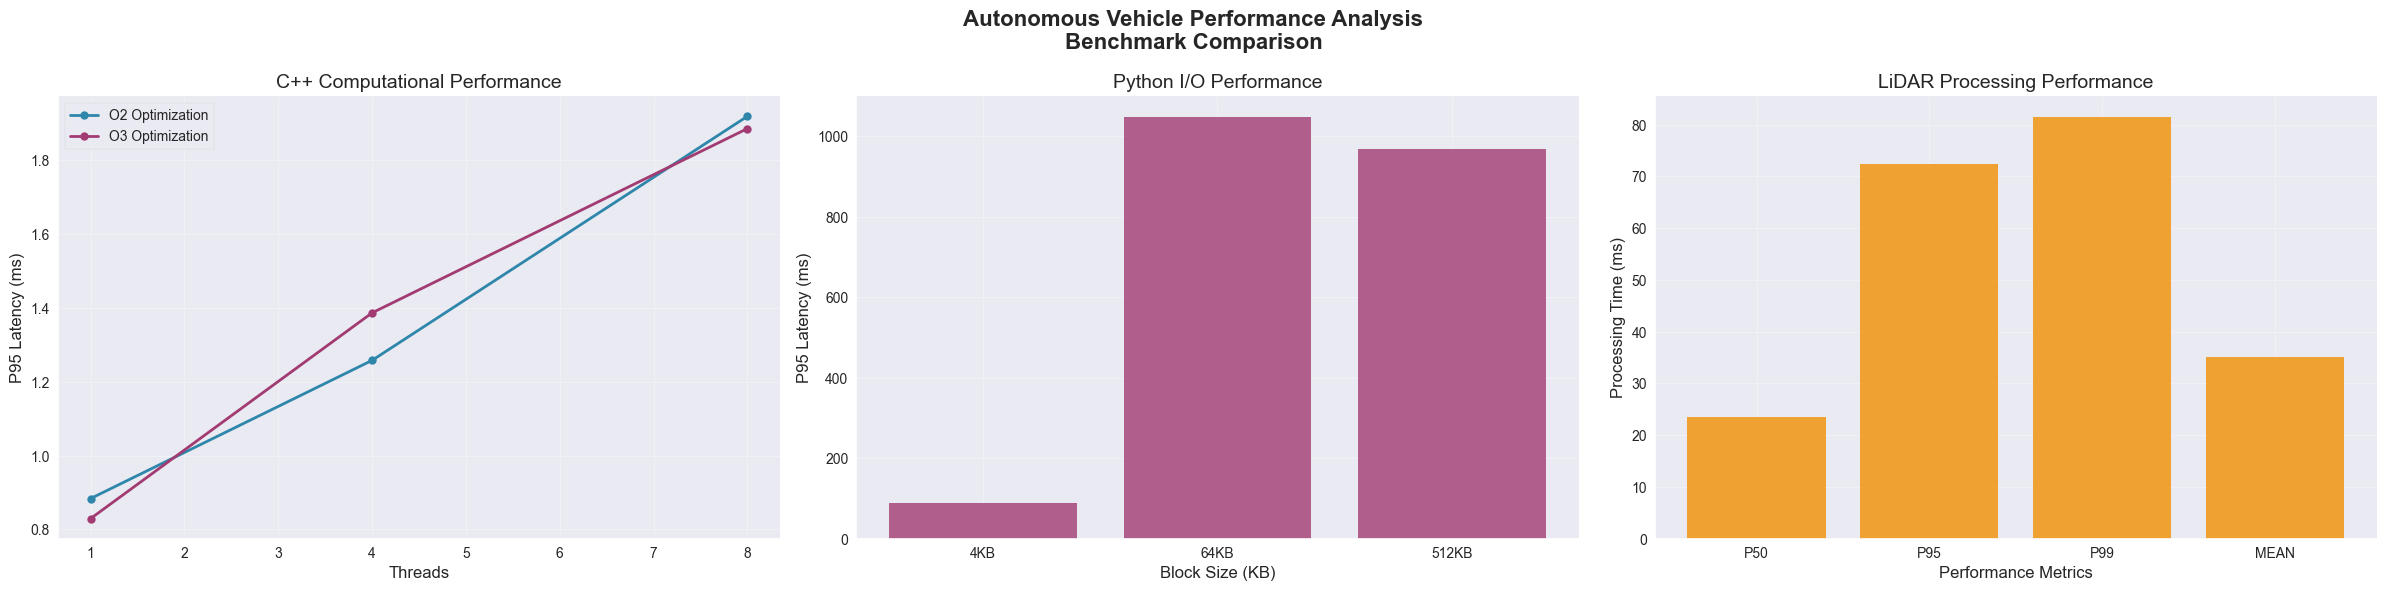
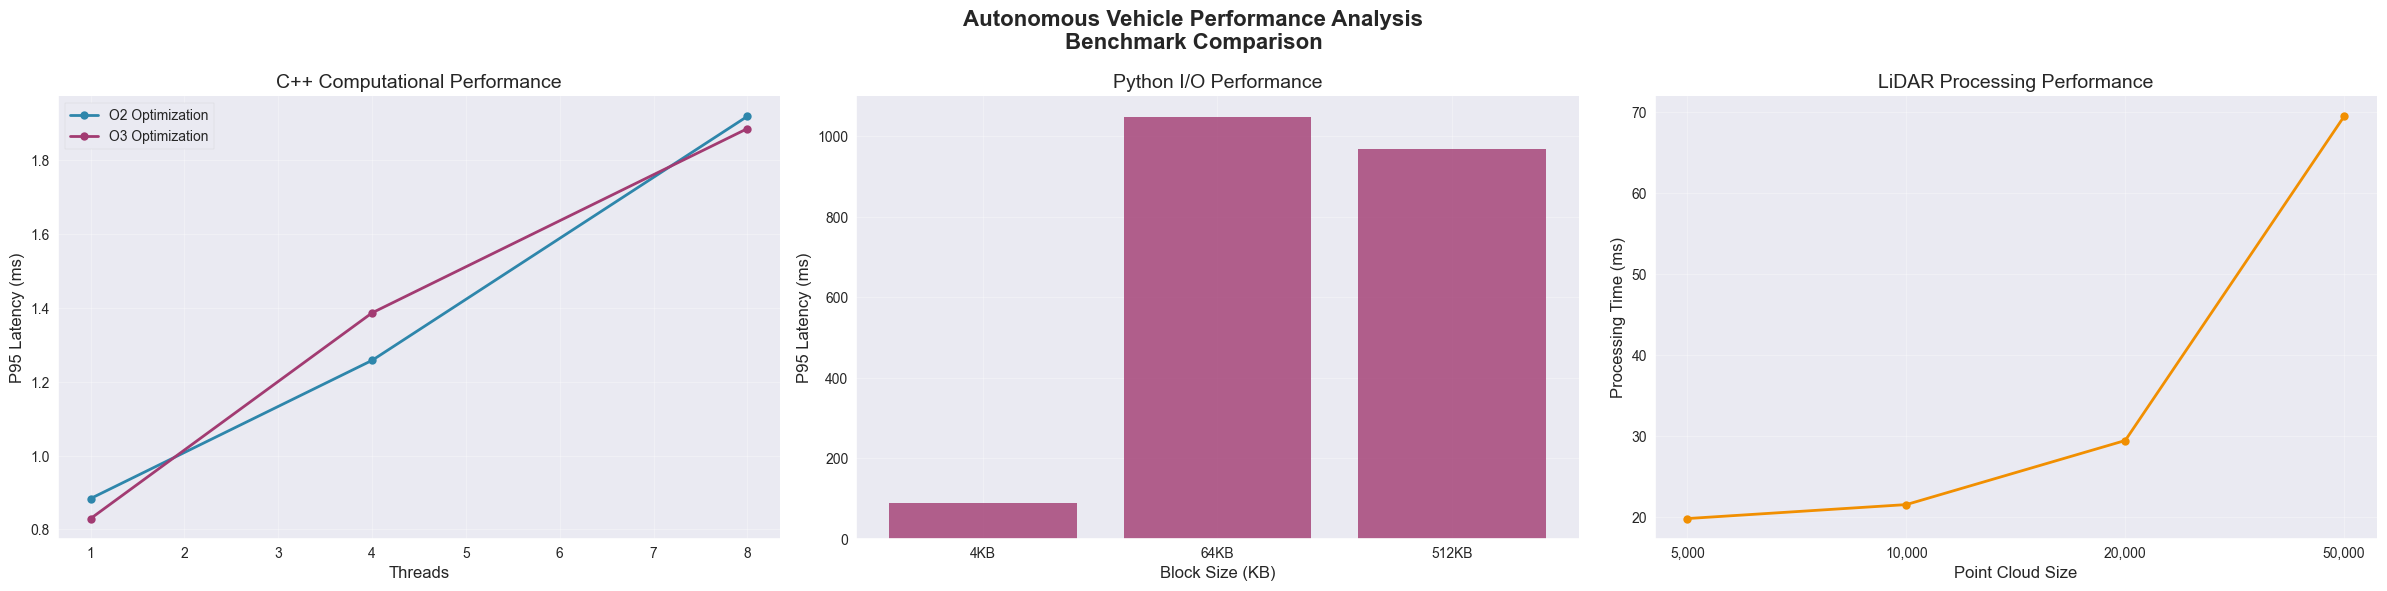
fixed figure bug

Changed region(s): [[0.682, 0.1827, 0.992, 0.9442], [0.806, 0.9442, 0.868, 1.0], [0.682, 0.4569, 0.713, 0.4873]]

diff --git a/analyze/plot.py b/analyze/plot.py
@@ -305,29 +305,38 @@ class PerformanceVisualizer:
         
         # LiDAR Processing subplot
         if 'lidar_processing' in benchmarks and ax_idx < len(axes):
-            lidar_data = df[df['bench'] == 'lidar_processing']
-            if not lidar_data.empty:
-                # Create a simple bar chart for LiDAR metrics
-                metrics = ['p50', 'p95', 'p99', 'mean']
-                metric_values = []
-                metric_labels = []
-                
-                for metric in metrics:
-                    metric_data = lidar_data[lidar_data['level_4'] == metric]
-                    if not metric_data.empty:
-                        metric_values.append(metric_data['wall_ms'].iloc[0])
-                        metric_labels.append(metric.upper())
-                
-                if metric_values:
-                    bars = axes[ax_idx].bar(range(len(metric_values)), metric_values,
-                                          color=self.colors['accent'], alpha=0.8)
+            # Try to load raw data for point cloud size analysis
+            raw_data_path = "out/lidar_processing_raw.csv"
+            if os.path.exists(raw_data_path):
+                try:
+                    raw_df = pd.read_csv(raw_data_path)
+                    point_sizes = sorted(raw_df['points'].unique())
                     
-                    axes[ax_idx].set_xlabel('Performance Metrics')
+                    # Calculate mean processing time for each point cloud size
+                    mean_times = []
+                    for size in point_sizes:
+                        size_data = raw_df[raw_df['points'] == size]['wall_ms']
+                        mean_times.append(size_data.mean())
+                    
+                    # Create line plot showing performance vs point cloud size
+                    x_pos = range(len(point_sizes))
+                    axes[ax_idx].plot(x_pos, mean_times, 
+                                     color=self.colors['accent'], marker='o', 
+                                     linewidth=2, markersize=6)
+                    
+                    axes[ax_idx].set_xlabel('Point Cloud Size')
                     axes[ax_idx].set_ylabel('Processing Time (ms)')
                     axes[ax_idx].set_title('LiDAR Processing Performance')
-                    axes[ax_idx].set_xticks(range(len(metric_labels)))
-                    axes[ax_idx].set_xticklabels(metric_labels)
-                    axes[ax_idx].grid(True, alpha=0.3, axis='y')
+                    axes[ax_idx].set_xticks(x_pos)
+                    axes[ax_idx].set_xticklabels([f'{size:,}' for size in point_sizes])
+                    axes[ax_idx].grid(True, alpha=0.3)
+                except Exception as e:
+                    print(f"Warning: Could not load raw LiDAR data: {e}")
+                    # Fallback to aggregated metrics
+                    self._create_fallback_lidar_subplot(axes[ax_idx], df[df['bench'] == 'lidar_processing'])
+            else:
+                # Fallback to aggregated metrics when raw data not available
+                self._create_fallback_lidar_subplot(axes[ax_idx], df[df['bench'] == 'lidar_processing'])
             ax_idx += 1
         
         plt.suptitle('Autonomous Vehicle Performance Analysis\nBenchmark Comparison', 
@@ -479,6 +488,31 @@ class PerformanceVisualizer:
         plt.close()
         
         return filepath
+    
+    def _create_fallback_lidar_subplot(self, ax, lidar_data: pd.DataFrame) -> None:
+        """Create fallback LiDAR subplot when raw data is not available."""
+        if not lidar_data.empty:
+            # Create a simple bar chart for LiDAR metrics
+            metrics = ['p50', 'p95', 'p99', 'mean']
+            metric_values = []
+            metric_labels = []
+            
+            for metric in metrics:
+                metric_data = lidar_data[lidar_data['level_4'] == metric]
+                if not metric_data.empty:
+                    metric_values.append(metric_data['wall_ms'].iloc[0])
+                    metric_labels.append(metric.upper())
+            
+            if metric_values:
+                bars = ax.bar(range(len(metric_values)), metric_values,
+                             color=self.colors['accent'], alpha=0.8)
+                
+                ax.set_xlabel('Performance Metrics')
+                ax.set_ylabel('Processing Time (ms)')
+                ax.set_title('LiDAR Processing Performance')
+                ax.set_xticks(range(len(metric_labels)))
+                ax.set_xticklabels(metric_labels)
+                ax.grid(True, alpha=0.3, axis='y')
     
     def generate_visualizations(self, df: pd.DataFrame, output_dir: str) -> List[str]:
         """Generate all performance visualizations.
